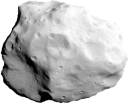
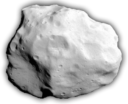
Add asteroid drop shadow and randomize asteroid Z order.

diff --git a/EventHorizonRider.Core/Components/SpaceComponents/Ring.cs b/EventHorizonRider.Core/Components/SpaceComponents/Ring.cs
@@ -61,7 +61,15 @@ namespace EventHorizonRider.Core.Components.SpaceComponents
 
             var maximumAsteroidsPerRing = (int)MathLib.GetRandomBetween(30, 50);
 
+            var depthOffset = new float[maximumAsteroidsPerRing];
+            for (int i = 0; i < depthOffset.Length; i++)
+            {
+                depthOffset[i] = i*0.0001f;
+            }
+            depthOffset = depthOffset.OrderBy(x => random.Next()).ToArray();
+
             var angleSpacing = MathHelper.TwoPi/maximumAsteroidsPerRing;
+            var index = 0;
 
             for (var angle = -MathHelper.Pi; angle < MathHelper.Pi; angle += angleSpacing)
             {
@@ -72,11 +80,12 @@ namespace EventHorizonRider.Core.Components.SpaceComponents
 
                 var asteroid = new Asteriod
                 {
+                    RelativeDepth = depthOffset[index],
                     Texture = textures[textureIndex],
                     TextureData = texturesData[textureIndex],
                     Rotation = MathHelper.WrapAngle((float) random.NextDouble()*MathHelper.TwoPi),
                     RotationRate = (float) random.NextDouble()*MathHelper.TwoPi/4f,
-                    Scale = Vector2.One* MathLib.GetRandomBetween(0.2f, 0.7f),
+                    Scale = Vector2.One* MathLib.GetRandomBetween(0.2f, 0.8f),
                     Origin = new Vector2(textures[textureIndex].Width/2f, textures[textureIndex].Height/2f),
                     RadiusOffset = (float) random.NextDouble()*10f,
                     Color = SegmentColors[random.Next(0, SegmentColors.Length)],
@@ -86,6 +95,8 @@ namespace EventHorizonRider.Core.Components.SpaceComponents
                 asteroid.UpdatePosition(origin, Radius);
 
                 newAsteroids.Add(asteroid);
+
+                index++;
             }
 
             asteroids = newAsteroids.ToArray();
@@ -95,8 +106,6 @@ namespace EventHorizonRider.Core.Components.SpaceComponents
 
         protected override void DrawCore(SpriteBatch spriteBatch)
         {
-            var currentDepth = Depth;
-
             foreach (var asteroid in asteroids)
             {
                 spriteBatch.Draw(
@@ -105,10 +114,8 @@ namespace EventHorizonRider.Core.Components.SpaceComponents
                     origin: asteroid.Origin,
                     color: asteroid.Color.AdjustLight(asteroidColorOffset),
                     rotation: asteroid.Rotation,
-                    depth: currentDepth,
+                    depth: asteroid.RelativeDepth + Depth,
                     scale: asteroid.Scale);
-
-                currentDepth += 0.0001f;
             }
         }
 

diff --git a/EventHorizonRider.Core/Physics/CollisionDetection.cs b/EventHorizonRider.Core/Physics/CollisionDetection.cs
@@ -148,8 +148,8 @@ namespace EventHorizonRider.Core.Physics
                         Color colorA = dataA[xA + yA * widthA];
                         Color colorB = dataB[xB + yB * widthB];
 
-                        // If both pixels are not completely transparent,
-                        if (colorA.A != 0 && colorB.A != 0)
+                        // If both pixels are completely opaque,
+                        if (colorA.A == 1 && colorB.A == 1)
                         {
                             // then an intersection has been found
                             return true;

diff --git a/EventHorizonRider.Core/Components/SpaceComponents/Asteroid.cs b/EventHorizonRider.Core/Components/SpaceComponents/Asteroid.cs
@@ -10,6 +10,7 @@ namespace EventHorizonRider.Core.Components.SpaceComponents
     /// </summary>
     internal class Asteriod : ISpriteInfo
     {
+        public float RelativeDepth { get; set; }
         public Texture2D Texture { get; set; }
         public float Rotation { get; set; }
         public Vector2 Origin { get; set; }
